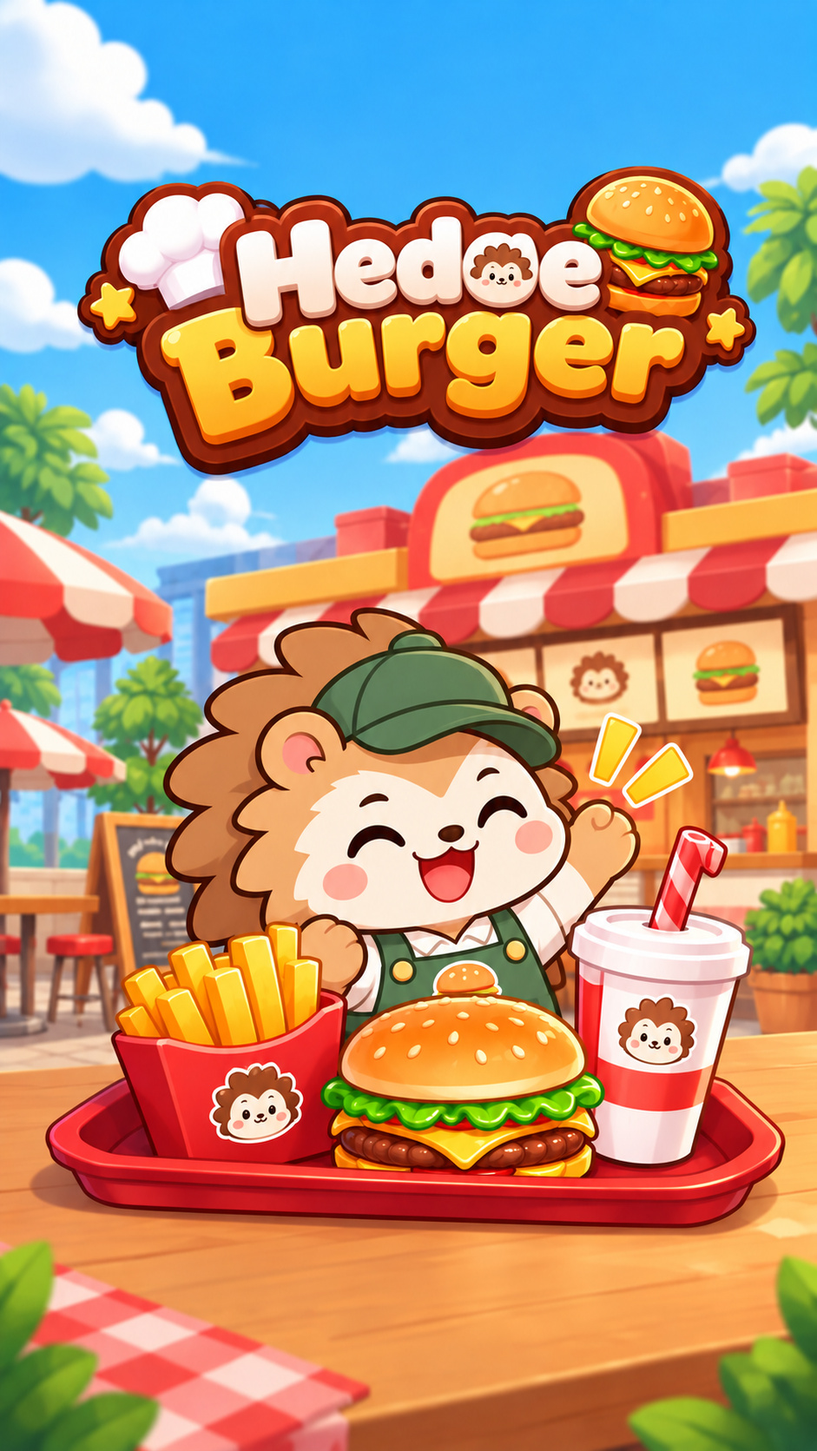
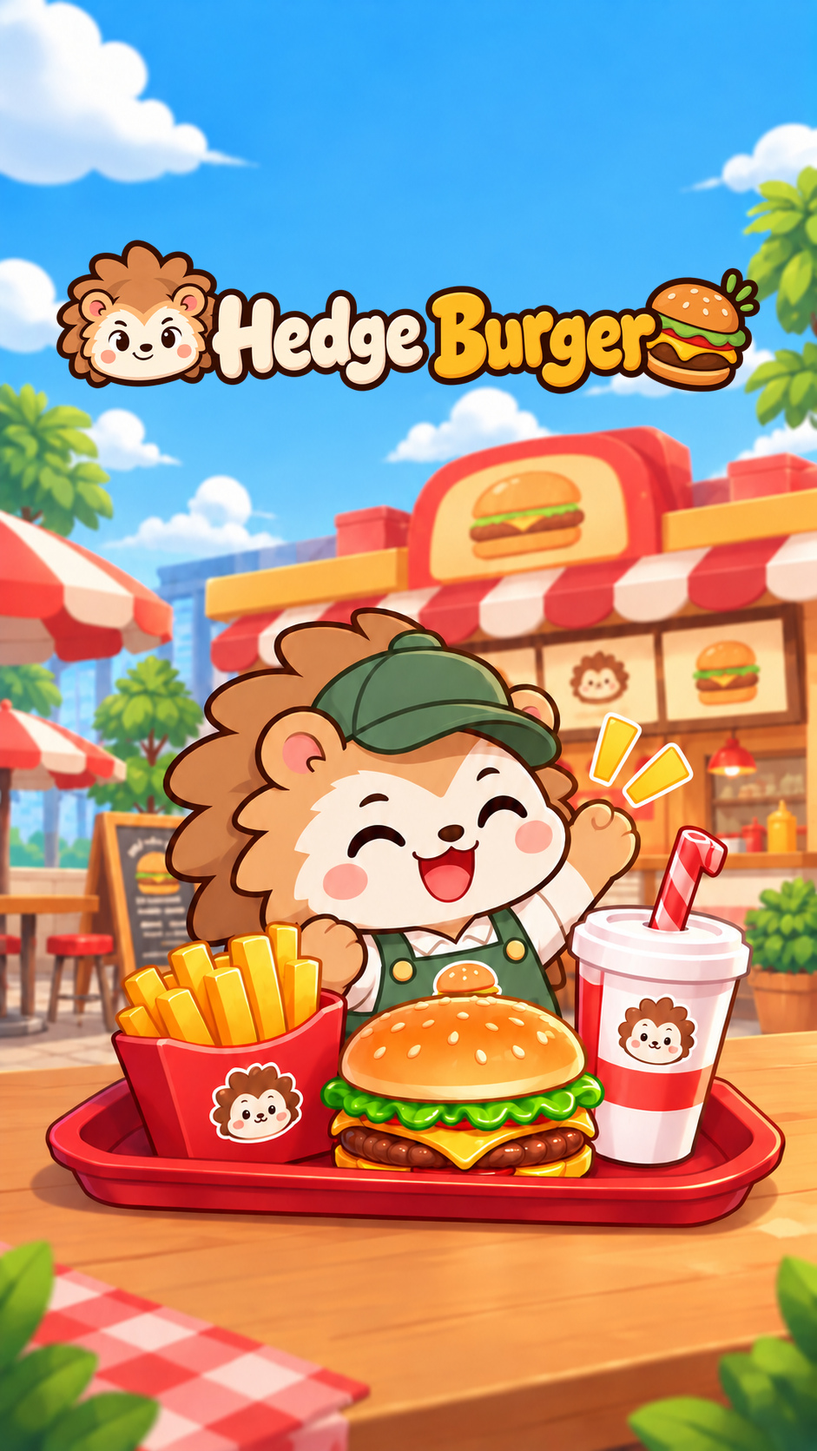
Hedge Burger v1.2: corrected loading/coins/guide art, two-word name, remaining cat wording
- v1.2 pack art: loading title reads Hedge Burger, logo, Home/Profile guides with the
  spaced name, revisit coins with H stamps (v1.1 cat-free label was wrong)
- visible name Hedge Burger everywhere (UI, share title, project.config.json)
- Meow Rush -> Hedge Burger (label fitted to its button), Hedge cashier/cleaner,
  Hire a Hedge cashier/cleaner, Calling the Hedge crew..., Ready! Hedge!
- HS-bound label/reward key/item name 'Meow Rush', save key, ids and file names kept

Claude-Session: https://claude.ai/code/session_01L76TDqLUMf2pGS7M5bR5mr

diff --git a/src/native/60n_ui_canvas.js b/src/native/60n_ui_canvas.js
@@ -113,7 +113,7 @@ const UI={
   onTaskAdvance(){}, onStageUp(){ UI.offerOpening(); },
   startAd(){ if(isBoost()||now<S.boostCd||UI.modalOpen||Ads.busy) return;
     Ads.rewarded('meow_rush',()=>UI.startRush(),{}); },
-  startRush(){ S.boostUntil=now+CFG.ads.rush.dur;S.boostCd=now+CFG.ads.rush.dur+CFG.ads.rush.cd;UI.toast('Meow Rush! 2× speed for 1 min');sfx('level'); },
+  startRush(){ S.boostUntil=now+CFG.ads.rush.dur;S.boostCd=now+CFG.ads.rush.dur+CFG.ads.rush.cd;UI.toast('Hedge Burger! 2× speed for 1 min');sfx('level'); },
   watchCoins(after){ if(!UI.ready('coin_purchase')||Ads.busy) return; const c=CFG.ads.coinPurchase;
     const done=()=>{UI._cd.coin_purchase=Date.now()+c.cd*1000;after&&after()};
     Ads.rewarded('coin_purchase',()=>{UI.grant(c.reward,'Coin purchase');done()},{after:done}); },
@@ -145,7 +145,7 @@ const UI={
     const show=S.task>=taskIndex('t_serve5');
     if(show){ const bx=W-10-78, by=Math.max(T+48,I.capB+8), on=isBoost(), sub=on?Math.ceil(S.boostUntil-now)+'s left':now<S.boostCd?'ready in '+Math.ceil(S.boostCd-now)+'s':'for 1 min';
       const dy=pressed('rush')?2:0; box(bx,by+dy,78,66,12,C.cream,C.ink,2.5,dy?1:3); ctx.save(); rrp(ctx,bx,by+dy,78,66,12); ctx.clip(); ctx.fillStyle=on?C.green:C.blue; ctx.fillRect(bx,by+dy+30,78,40); ctx.restore(); rrp(ctx,bx,by+dy,78,66,12); ctx.lineWidth=2.5; ctx.strokeStyle=C.ink; ctx.stroke();
-      txt('MEOW RUSH',bx+39,by+dy+10,11,C.ink,'center'); txt('×2 SPEED',bx+39,by+dy+23,14,'#3f8f35','center'); txt(sub,bx+39,by+dy+50,11,'#fff','center',700,C.ink,3);
+      txt('HEDGE BURGER',bx+39,by+dy+10,Math.min(11,70/tw('HEDGE BURGER',1)),C.ink,'center'); txt('×2 SPEED',bx+39,by+dy+23,14,'#3f8f35','center'); txt(sub,bx+39,by+dy+50,11,'#fff','center',700,C.ink,3);
       hit(bx,by,78,66,()=>UI.startAd(),'rush'); }
     /* coin bag (Buying Pad) chip */
     let sideY=T+46;
@@ -226,7 +226,7 @@ const UI={
     gap(h){ return {h,gap:0,draw(){}}; },
   },
   m_shop(w){ const on=isBoost(),cd=now<S.boostCd, cp=CFG.ads.coinPurchase, wait=Math.ceil(((UI._cd.coin_purchase||0)-Date.now())/1000), B=UI.B;
-    const r=[B.row({w:w,icon:'speed',title:'Meow Rush',desc:'Stations cook twice as fast and you walk 30% faster for 1 minute.',btn:{label:on?'ACTIVE':cd?Math.ceil(S.boostCd-now)+'s':'FREE',icon:on||cd?null:'ad',disabled:on||cd,fn:()=>{UI.close();UI.startAd()},id:'sb1'}}),
+    const r=[B.row({w:w,icon:'speed',title:'Hedge Burger',desc:'Stations cook twice as fast and you walk 30% faster for 1 minute.',btn:{label:on?'ACTIVE':cd?Math.ceil(S.boostCd-now)+'s':'FREE',icon:on||cd?null:'ad',disabled:on||cd,fn:()=>{UI.close();UI.startAd()},id:'sb1'}}),
       B.row({w:w,icon:'coin',title:'Bag of coins',desc:'A tip jar from happy customers.',btn:{label:wait>0?wait+'s':'+'+cp.reward,icon:wait>0?null:'ad',disabled:wait>0,fn:()=>{UI.close();UI.watchCoins()},id:'sb2'}}),
       B.note('Decorations, tables and new stations are bought directly in the restaurant by standing on their dashed spot.',w)]; r.title='SHOP'; return r; },
   m_upgrade(w){ const tabs=UI.upTabs(), tab=UI._modal.arg, cur=tabs.find(t=>t[0]===tab), u=UPG[tab], B=UI.B, r=[B.tabs(tabs,tab,t=>UI.openUpgrade(t))];
@@ -258,7 +258,7 @@ const UI={
   testTool(x){ const m=PF.mock; if(x==='days'){S.mx.rvDay='';S.mx.shDay='';PF._mockRevisit=false;UI._rvCan=false;save();UI.toast('Daily gifts reset')}
     if(x==='home'){S.mx.home=0;S.mx.homeAsked=0;save();UI.toast('Add-to-Home reset')} if(x==='fail'){m.adFailNext=true;UI.toast('Next ad will fail')} if(x==='quit'){m.adQuitNext=true;UI.toast('Next ad will be closed early')} if(x==='money'){S.money+=500;save()} },
   m_milestone(w){ const r=[{h:84,draw(x,y,ww){ drawImg(icon('star'),x+ww/2-38,y,76,76); }}, {h:30,draw(x,y,ww){ box(x,y,ww,30,12,C.red,C.ink,2.5,0); txt('GRAND OPENING COMPLETE',x+ww/2,y+16,15,'#fff','center',700,C.ink,3); }},
-      UI.B.note('HedgeBurger is now a Burger Palace!',w),
+      UI.B.note('Hedge Burger is now a Burger Palace!',w),
       {h:52,draw(x,y,ww){ const s=[[fmtTime(S.playTime),'play time'],[String(S.stats.served),'customers served'],[fmtNum(S.stats.collected),'coins collected']], bw=(ww-12)/3; s.forEach((v,i)=>{ const bx=x+i*(bw+6); box(bx,y,bw,52,10,'#fff',C.ink,2,0); txt(v[0],bx+bw/2,y+19,18,C.ink,'center'); txt(v[1],bx+bw/2,y+39,10,C.brown2,'center',600); }); }},
       UI.B.note('Keep playing: every upgrade and optional table stays available.',w)]; r.title=''; return r; },
   /* --- popups (mockup style) --- */
@@ -273,21 +273,21 @@ const UI={
         txt(amt,x+ww/2,y+ww*ratio*.78,38,'#fff','center',700,'#6b3b22',7); }}; },
       note(s,w){ return {h:wrap(s,w,13).length*17, draw(x,y,ww){ para(s,x,y,ww,13,'#8a4a2a',700,1.25,'center'); }}; },
   },
-  m_home(w){ const P=UI.P, amt=CFG.gifts.home, paid=UI.homeDone(); const r=[P.sub('Add HedgeBurger to your phone screen for quick access!',w), P.art('pop_home_art.jpg',w,217/640)];
+  m_home(w){ const P=UI.P, amt=CFG.gifts.home, paid=UI.homeDone(); const r=[P.sub('Add Hedge Burger to your phone screen for quick access!',w), P.art('pop_home_art.jpg',w,217/640)];
     if(!paid) r.push(P.pill('+'+amt,'first time bonus'));
     r.push(P.yellow(UI._busy?'…':'Add Now',async()=>{ if(UI._busy) return; UI._busy=true; const res=await PF.addHome(); UI._busy=false;
       if(!res.ok){ UI.toast('Not added — you can try again any time'); return; }
       const can=await PF.shortcutReward(); UI.close();
-      if(can&&!UI.homeDone()){ S.mx.home=1; UI.giftPay(amt,'Home screen bonus'); } else { S.mx.home=S.mx.home||'added'; save(); UI.toast('HedgeBurger is on your phone screen!'); } },{disabled:!!UI._busy,id:'homeGo'}));
+      if(can&&!UI.homeDone()){ S.mx.home=1; UI.giftPay(amt,'Home screen bonus'); } else { S.mx.home=S.mx.home||'added'; save(); UI.toast('Hedge Burger is on your phone screen!'); } },{disabled:!!UI._busy,id:'homeGo'}));
     return r; },
   m_revisit(w){ const P=UI.P, amt=CFG.gifts.revisit, claimed=UI.revisitClaimed(), can=UI._rvCan&&!claimed;
     return [P.step(1,'Tap the button below.',w), P.yellow('Go',async()=>{ const r=await PF.startRevisit(); if(!r.ok){UI.toast('Could not open your profile');return} if(!PF.isMinis){ UI.toast('Welcome back from your Profile!'); UI.refreshRevisit(false); } },{disabled:claimed,id:'rvGo'}),
-      P.step(2,'Come back to HedgeBurger from your TikTok profile.',w), P.art('pop_revisit_profile.jpg',w,362/640), P.step(3,'Claim rewards.',w), P.coins('pop_revisit_coins.jpg','+'+amt,w,283/762),
+      P.step(2,'Come back to Hedge Burger from your TikTok profile.',w), P.art('pop_revisit_profile.jpg',w,362/640), P.step(3,'Claim rewards.',w), P.coins('pop_revisit_coins.jpg','+'+amt,w,283/762),
       P.note(claimed?'Gift claimed — come back tomorrow for another gift.':'Come back tomorrow for another gift.',w),
-      P.yellow(claimed?'Claimed ✓':'Claim',async()=>{ if(UI.revisitClaimed()) return; const ok=await PF.revisitReward(); if(!ok){ UI._rvCan=false; UI.toast('Open HedgeBurger from Profile › Recently played first'); return; }
+      P.yellow(claimed?'Claimed ✓':'Claim',async()=>{ if(UI.revisitClaimed()) return; const ok=await PF.revisitReward(); if(!ok){ UI._rvCan=false; UI.toast('Open Hedge Burger from Profile › Recently played first'); return; }
         S.mx.rvDay=dayKey(); PF._mockRevisit=false; UI.close(); UI.giftPay(amt,'Revisit gift'); },{disabled:!can,id:'rvClaim'})]; },
   m_share(w){ const P=UI.P, amt=CFG.gifts.share, claimed=UI.shareClaimed();
-    return [P.sub('Share HedgeBurger with friends and get a reward!',w), P.art('pop_share_art.jpg',w,451/640), P.pill(claimed?'Claimed today':'+'+amt,claimed?'new gift tomorrow':null),
+    return [P.sub('Share Hedge Burger with friends and get a reward!',w), P.art('pop_share_art.jpg',w,451/640), P.pill(claimed?'Claimed today':'+'+amt,claimed?'new gift tomorrow':null),
       P.yellow(claimed?'Share again':'Share Now',async()=>{ if(UI._busy) return; UI._busy=true; const r=await PF.share(); UI._busy=false; if(!r.ok){ UI.toast('Share cancelled'); return; }
         UI.close(); if(!UI.shareClaimed()){ S.mx.shDay=dayKey(); UI.giftPay(amt,'Share gift'); } else UI.toast('Thanks for sharing!'); },{icon:'share',id:'shGo'})]; },
   /* --- mock ad / mock TikTok sheet --- */

diff --git a/src/00_config.js b/src/00_config.js
@@ -20,7 +20,7 @@ const CFG={
   boost:{dur:60, cd:120},   // kept for old saves; the ad scenario uses CFG.ads.rush
   xp:{base:6, perLevel:6},
   decorBonus:0.05,          // +5% to every sale per decoration bought
-  stageNames:['Chicken Corner','HedgeBurger Diner','Bigger Restaurant','Patio & Grand Opening'],
+  stageNames:['Chicken Corner','Hedge Burger Diner','Bigger Restaurant','Patio & Grand Opening'],
   minis:{clientKey:''},
   /* Ad scenario v4.6 — Meow Pizza placements (labels match the Meow Sushi config). Times in seconds.
      Ads are shown through Ads.adapter (HS SDK goes there); without it a test ad is simulated. */
@@ -111,11 +111,11 @@ const SPOTS=[
  {id:'bin',     label:'Trash bin',     cost:5,   fp:[12.95,6.5,0.6,0.6],unlock:'t_bin',     kind:'bin'},
  {id:'table2',  label:'Table',         cost:60,  fp:[14.95,1.25,1.3,1.3],unlock:'t_table2',   kind:'table'},
  {id:'drink',   label:'Soda fountain', cost:90,  fp:[2.3,0,1.5,1.25],  unlock:'t_drink',    kind:'station', st:'drink', pt:[3.05,1.8]},
- {id:'renovate',label:'HedgeBurger Diner', cost:300, fp:[13.6,9.9,1.1,0.8],unlock:'t_renovate', kind:'stage', stage:1},
+ {id:'renovate',label:'Hedge Burger Diner', cost:300, fp:[13.6,9.9,1.1,0.8],unlock:'t_renovate', kind:'stage', stage:1},
  {id:'pantry',  label:'Storage shelf', cost:150, fp:[0,3.75,0.6,1.1],  unlock:'t_pantry',kind:'station', st:'pantry', pt:[1.1,4.3]},
  {id:'prep',    label:'Burger station',cost:180, fp:[0,5.4,1.3,2.0],  unlock:'t_prep',    kind:'station', st:'prep', pt:[1.85,6.4]},
  {id:'office',  label:'Manager desk',  cost:600, fp:[17.35,12.9,0.8,0.65],unlock:'t_office',  kind:'office', zone:'hall2'},
- {id:'cashier', label:'Cashier cat',   cost:340, fp:[4.4,9.0,0.8,0.8],unlock:'t_hire1',    kind:'hire', worker:'cashier'},
+ {id:'cashier', label:'Hedge cashier',   cost:340, fp:[4.4,9.0,0.8,0.8],unlock:'t_hire1',    kind:'hire', worker:'cashier'},
  {id:'table3',  label:'Table',         cost:150, fp:[10.25,4.75,1.3,1.3],unlock:'t_table3',   kind:'table'},
  {id:'expand_kitchen2',label:'Bigger kitchen',cost:420,fp:[4.3,10.0,1.1,0.8],unlock:'t_expandk',kind:'zone', zones:['kitchen2']},
  {id:'oven2',   label:'Chicken station',cost:240, fp:[0,11.4,1.3,2.3], unlock:'t_oven2',   kind:'station', st:'oven', pt:[1.85,12.55], zone:'kitchen2'},
@@ -130,7 +130,7 @@ const SPOTS=[
  {id:'helper',  label:'Kitchen runner',cost:480, fp:[3.3,2.6,0.8,0.8],unlock:'t_hire2',    kind:'hire', worker:'helper'},
  {id:'table6',  label:'Family table',  cost:240, fp:[14.95,11.8,1.3,2.95],unlock:'t_table6',   kind:'table4p', zone:'hall2'},
  {id:'waiter',  label:'Food runner',   cost:420, fp:[9.0,10.1,0.8,0.8],unlock:'t_hire3',    kind:'hire', worker:'waiter'},
- {id:'cleaner', label:'Cleaner cat',   cost:300, fp:[12.85,3.4,0.8,0.8],unlock:'t_hire4',   kind:'hire', worker:'cleaner'},
+ {id:'cleaner', label:'Hedge cleaner',   cost:300, fp:[12.85,3.4,0.8,0.8],unlock:'t_hire4',   kind:'hire', worker:'cleaner'},
  {id:'vip',     label:'VIP table',     cost:420, fp:[10.25,15.9,1.3,1.3],unlock:'t_vip',     kind:'vip', zone:'hall2'},
  {id:'table4',  label:'Table',         cost:220, fp:[14.95,4.75,1.3,1.3],unlock:'t_table4',   kind:'table'},
  {id:'seafood', label:'Chicken burger station',cost:560,fp:[0,14.3,1.3,1.8],unlock:'t_seafood',kind:'station', st:'seafood', pt:[1.85,15.2], zone:'kitchen2'},
@@ -158,14 +158,14 @@ const TASKS=[
  {id:'t_table2',  text:'Unlock a new table',kind:'buy',spot:'table2',reward:20},
  {id:'t_drink',   text:'New drink: Hedge Cola',kind:'buy',spot:'drink',reward:30},
  {id:'t_cook10',  text:'Fry 10 chicken buckets',kind:'count',stat:'cooked_pizza',n:10,reward:40},
- {id:'t_hire1',   text:'Hire a cashier cat',kind:'buy',spot:'cashier',reward:60},
+ {id:'t_hire1',   text:'Hire a Hedge cashier',kind:'buy',spot:'cashier',reward:60},
  {id:'t_collect100',text:'Collect 100 coins',kind:'count',stat:'collected',n:100,reward:40},
- {id:'t_renovate',text:'Renovate into HedgeBurger Diner',kind:'buy',spot:'renovate',reward:50},
+ {id:'t_renovate',text:'Renovate into Hedge Burger Diner',kind:'buy',spot:'renovate',reward:50},
  {id:'t_pantry',  text:'Build the storage shelf',kind:'buy',spot:'pantry',reward:40},
  {id:'t_prep',    text:'New recipe: Cheeseburger',kind:'buy',spot:'prep',reward:50},
  {id:'t_loadprep',text:'Bring patties to the burger station',kind:'count',stat:'loaded',n:3,reward:30,target:'pantry'},
  {id:'t_table3',  text:'Unlock a third table',kind:'buy',spot:'table3',reward:40},
- {id:'t_hire4',   text:'Hire a cleaner cat',kind:'buy',spot:'cleaner',reward:60},
+ {id:'t_hire4',   text:'Hire a Hedge cleaner',kind:'buy',spot:'cleaner',reward:60},
  {id:'t_store',   text:'Upgrade the storage shelf',kind:'level',key:'store',n:1,reward:40,target:'padKitchen'},
  {id:'t_flow',    text:'Attract more customers',kind:'level',key:'rFlow',n:1,reward:50,target:'padRest'},
  {id:'t_table4',  text:'Unlock the fourth table',kind:'buy',spot:'table4',reward:50},

diff --git a/src/index.template.html b/src/index.template.html
@@ -1,4 +1,4 @@
-<title>HedgeBurger</title>
+<title>Hedge Burger</title>
 <meta name="claude:viewport-fit-sides" content="cover">
 <link rel="preconnect" href="https://fonts.googleapis.com">
 <link rel="stylesheet" href="https://fonts.googleapis.com/css2?family=Fredoka:wght@500;600;700&display=swap">
@@ -30,7 +30,7 @@ button{font:inherit;color:inherit}
 .pbar span{position:absolute;inset:0;display:grid;place-items:center;font-size:13px;color:var(--ink);text-decoration:none}
 #icPin{position:absolute;right:2px;top:-8px;width:22px;height:30px}
 .boost{pointer-events:auto;position:absolute;right:max(10px,env(safe-area-inset-right,0px));top:max(calc(56px + var(--sat)),calc(var(--capb) + 8px));width:78px;padding:5px 3px;border:2.5px solid var(--ink);border-radius:12px;background:linear-gradient(var(--cream) 0 46%,var(--blue) 46%);text-align:center;font-weight:700;box-shadow:0 3px 0 rgba(90,52,36,.3);cursor:pointer}
-.boost b{display:block;font-size:12px;letter-spacing:.04em}.boost em{display:block;font-style:normal;font-size:15px;color:#3f8f35;line-height:1.1}
+.boost b{display:block;font-size:12px;letter-spacing:.04em;white-space:nowrap}.boost b.long{font-size:9.5px;letter-spacing:0}.boost em{display:block;font-style:normal;font-size:15px;color:#3f8f35;line-height:1.1}
 .boost small{display:block;font-size:11px;color:#fff;text-shadow:0 1px 0 var(--ink);margin-top:14px}.boost.on{background:linear-gradient(var(--cream) 0 46%,var(--green) 46%)}
 .boost .ad{display:inline-block;width:26px;height:18px;margin-top:2px}
 .spacer{flex:1}
@@ -155,14 +155,14 @@ button:focus-visible,.boost:focus-visible{outline:3px solid #fff;outline-offset:
 </style>
 
 <div id="wrap">
-  <canvas id="game" aria-label="HedgeBurger restaurant"></canvas>
+  <canvas id="game" aria-label="Hedge Burger restaurant"></canvas>
   <div class="hud">
     <div class="top">
       <div class="pill" id="coinPill"><i id="icCoin"></i><span id="moneyTxt">0</span><button class="plus" id="plusBtn" aria-label="Shop">+</button></div>
       <div class="pill" id="starPill"><i id="icStar"></i><span id="lvlTxt">1</span></div>
       <button class="pill" id="progPill" aria-label="Open map"><div class="pbar"><u id="progFill"></u><span id="progTxt">0/10</span></div><i id="icPin"></i></button>
     </div>
-    <div class="boost" id="boostBtn" role="button" tabindex="0" hidden><b>MEOW RUSH</b><em>×2 SPEED</em><small id="boostSub">for 1 min</small></div>
+    <div class="boost" id="boostBtn" role="button" tabindex="0" hidden><b class="long">HEDGE BURGER</b><em>×2 SPEED</em><small id="boostSub">for 1 min</small></div>
         <button class="chip" id="bagChip" hidden><i></i><b>+0</b></button>
     <div id="side"><button class="sb" id="sbRevisit" hidden aria-label="Revisit gift"><img alt=""></button><button class="sb" id="sbShare" hidden aria-label="Share gift"><img alt=""></button><button class="sb" id="sbHome" hidden aria-label="Add to phone screen"><img alt=""></button></div>
     <div class="spacer"></div>
@@ -179,7 +179,7 @@ button:focus-visible,.boost:focus-visible{outline:3px solid #fff;outline-offset:
     <div id="banner"><b>Title</b><span></span></div>
   </div>
   <div id="modalRoot"></div>
-  <div id="loading"><div class="ld-bg"></div><img class="ld-art" alt="HedgeBurger" src="__ART_loading_bg__"><div class="ld-ui"><div class="ld-bar"><u></u><img alt="" src="__ART_paw_thumb__"></div><div id="loadTxt">Loading… 0%</div></div></div>
+  <div id="loading"><div class="ld-bg"></div><img class="ld-art" alt="Hedge Burger" src="__ART_loading_bg__"><div class="ld-ui"><div class="ld-bar"><u></u><img alt="" src="__ART_paw_thumb__"></div><div id="loadTxt">Loading… 0%</div></div></div>
   <div id="mockCap" hidden>… | ✕</div>
   <div id="errorBox" hidden><div><h2>The game could not start</h2><p></p><small>Try reloading the page. If it keeps happening, send this message to the developer.</small></div></div>
 </div>

diff --git a/src/65_minis_ui.js b/src/65_minis_ui.js
@@ -91,7 +91,7 @@ Object.assign(UI,{
     $('mxClose').onclick=close; $('modalBg').onclick=e=>{if(e.target.id==='modalBg')close()}; },
   /* ---- Add to Phone Screen ---- */
   openHome(){ const amt=CFG.gifts.home, paid=UI.homeDone();
-    UI.popup(MX_ART.btn_home,'Launch Reward',`<p class="mx-sub">Add HedgeBurger to your phone screen for quick access!</p>
+    UI.popup(MX_ART.btn_home,'Launch Reward',`<p class="mx-sub">Add Hedge Burger to your phone screen for quick access!</p>
       <img class="mx-art" alt="" src="${MX_ART.pop_home_art}">
       ${PF.isMinis?'':`<img class="mx-art mx-steps" alt="1. Tap the share button. 2. Select Add to Home Screen." src="${MX_ART.pop_home_steps}">`}
       ${paid?'':`<div class="mx-pill">${UI_ICON.coin}<b>+${amt}</b><small>first time bonus</small></div>`}
@@ -99,14 +99,14 @@ Object.assign(UI,{
     $('mxGo').onclick=async()=>{ const b=$('mxGo'); b.disabled=true; const r=await PF.addHome();
       if(!r.ok){ b.disabled=false; UI.toast('Not added — you can try again any time'); return; }
       const can=await PF.shortcutReward(); UI.close();
-      if(can&&!UI.homeDone()){ S.mx.home=1; UI.grant(amt,'Home screen bonus'); } else { S.mx.home=S.mx.home||'added'; save(); UI.toast('HedgeBurger is on your phone screen!'); } }; },
+      if(can&&!UI.homeDone()){ S.mx.home=1; UI.grant(amt,'Home screen bonus'); } else { S.mx.home=S.mx.home||'added'; save(); UI.toast('Hedge Burger is on your phone screen!'); } }; },
   /* ---- Revisit Gift ---- */
   openRevisit(){ const amt=CFG.gifts.revisit, claimed=UI.revisitClaimed(), can=UI._rvCan&&!claimed;
     UI._rvPopup=true;
     UI.popup(MX_ART.btn_revisit,'Entry Reward',`<ol class="mx-steps-list">
       <li><span class="mx-n">1</span><p>Tap the button below.</p></li></ol>
       <button class="mx-btn" id="mxGo" ${claimed?'disabled':''}>Go</button>
-      <ol class="mx-steps-list" start="2"><li><span class="mx-n">2</span><p>Come back to HedgeBurger from your TikTok profile.</p></li></ol>
+      <ol class="mx-steps-list" start="2"><li><span class="mx-n">2</span><p>Come back to Hedge Burger from your TikTok profile.</p></li></ol>
       <img class="mx-art" alt="Find us under Profile, Recently played" src="${MX_ART.pop_revisit_profile}">
       <ol class="mx-steps-list" start="3"><li><span class="mx-n">3</span><p>Claim rewards.</p></li></ol>
       <div class="mx-coins"><img alt="" src="${MX_ART.pop_revisit_coins}"><b>+${amt}</b></div>
@@ -115,11 +115,11 @@ Object.assign(UI,{
     $('mxGo').onclick=async()=>{ const r=await PF.startRevisit(); if(!r.ok){UI.toast('Could not open your profile');return}
       if(!PF.isMinis){ UI.toast('Welcome back from your Profile!'); UI.refreshRevisit(false); } };
     $('mxClaim').onclick=async()=>{ if(UI.revisitClaimed()) return; $('mxClaim').disabled=true; const ok=await PF.revisitReward();
-      if(!ok){ UI.toast('Open HedgeBurger from Profile › Recently played first'); UI.openRevisit(); return; }
+      if(!ok){ UI.toast('Open Hedge Burger from Profile › Recently played first'); UI.openRevisit(); return; }
       S.mx.rvDay=dayKey(); PF._mockRevisit=false; UI._rvPopup=false; UI.close(); UI.grant(amt,'Revisit gift'); }; },
   /* ---- Share Gift ---- */
   openShare(){ const amt=CFG.gifts.share, claimed=UI.shareClaimed();
-    UI.popup(MX_ART.btn_share,'Share Game',`<p class="mx-sub">Share HedgeBurger with friends and get a reward!</p>
+    UI.popup(MX_ART.btn_share,'Share Game',`<p class="mx-sub">Share Hedge Burger with friends and get a reward!</p>
       <img class="mx-art" alt="" src="${MX_ART.pop_share_art}">
       <div class="mx-pill">${UI_ICON.coin}<b>${claimed?'Claimed today':'+'+amt}</b>${claimed?'<small>new gift tomorrow</small>':''}</div>
       <button class="mx-btn" id="mxGo"><i>${MX_ICON.share}</i>${claimed?'Share again':'Share Now'}</button>`);

diff --git a/src/60_ui.js b/src/60_ui.js
@@ -67,14 +67,14 @@ const UI={
     UI.modal(`<h2>RESTAURANT MAP</h2><div class="stages">${cards}</div>`,'wide')},
   /* ---- shop ---- */
   openShop(){const on=isBoost(),cd=now<S.boostCd, cp=CFG.ads.coinPurchase, cpWait=Math.ceil(((UI._cd.coin_purchase||0)-Date.now())/1000);
-    UI.modal(`<h2>SHOP</h2><div class="ulist"><div class="urow"><i>${UI_ICON.speed}</i><div class="uinfo"><b>Meow Rush</b><small>Stations cook twice as fast and you walk 30% faster for 1 minute.</small></div><button class="buy" id="shopBoost" ${on||cd?'disabled':''}>${on?'ACTIVE':cd?Math.ceil(S.boostCd-now)+'s':UI_ICON.ad+' FREE'}</button></div>
+    UI.modal(`<h2>SHOP</h2><div class="ulist"><div class="urow"><i>${UI_ICON.speed}</i><div class="uinfo"><b>Hedge Burger</b><small>Stations cook twice as fast and you walk 30% faster for 1 minute.</small></div><button class="buy" id="shopBoost" ${on||cd?'disabled':''}>${on?'ACTIVE':cd?Math.ceil(S.boostCd-now)+'s':UI_ICON.ad+' FREE'}</button></div>
       <div class="urow"><i>${UI_ICON.coin}</i><div class="uinfo"><b>Bag of coins</b><small>A tip jar from happy customers.</small></div><button class="buy" id="shopCoins" ${cpWait>0?'disabled':''}>${cpWait>0?cpWait+'s':UI_ICON.ad+' +'+cp.reward}</button></div></div>
       <p class="note">Decorations, tables and new stations are bought directly in the restaurant by standing on their dashed spot.</p>`);
     const b=$('shopBoost'); if(b) b.onclick=()=>{UI.close();UI.startAd()};
     const g=$('shopCoins'); if(g) g.onclick=()=>{UI.close();UI.watchCoins()};},
   /* Meow Rush (rewarded) */
   startAd(){ if(isBoost()||now<S.boostCd||UI.modalOpen||Ads.busy) return;
-    Ads.rewarded('meow_rush',()=>{S.boostUntil=now+CFG.ads.rush.dur;S.boostCd=now+CFG.ads.rush.dur+CFG.ads.rush.cd;UI.toast('Meow Rush! 2× speed for 1 min');sfx('level')}); },
+    Ads.rewarded('meow_rush',()=>{S.boostUntil=now+CFG.ads.rush.dur;S.boostCd=now+CFG.ads.rush.dur+CFG.ads.rush.cd;UI.toast('Hedge Burger! 2× speed for 1 min');sfx('level')}); },
   /* Coin Purchase (rewarded): fixed coins per watch */
   watchCoins(after){ if(!UI.ready('coin_purchase')||Ads.busy) return; const c=CFG.ads.coinPurchase;
     Ads.rewarded('coin_purchase',()=>{UI._cd.coin_purchase=Date.now()+c.cd*1000;UI.grant(c.reward,'Coin purchase');after&&after()}); },
@@ -91,7 +91,7 @@ const UI={
     $('modalRoot').querySelectorAll('[data-x]').forEach(b=>b.onclick=()=>UI.testTool(b.dataset.x,b));
     $('sSound').onclick=()=>{S.sound=!S.sound;$('sSound').textContent='Sound: '+(S.sound?'ON':'OFF');save()};
     let armed=false;$('sReset').onclick=()=>{if(!armed){armed=true;$('sReset').textContent='Tap again to confirm';return}resetGame();UI.close();UI.toast('Fresh start!')}},
-  milestone(){UI.modal(`<div class="trophy">${UI_ICON.star}</div><h2>GRAND OPENING COMPLETE</h2><p class="big">HedgeBurger is now a Burger Palace!</p>
+  milestone(){UI.modal(`<div class="trophy">${UI_ICON.star}</div><h2>GRAND OPENING COMPLETE</h2><p class="big">Hedge Burger is now a Burger Palace!</p>
     <div class="mstats"><div><b>${fmtTime(S.playTime)}</b><small>play time</small></div><div><b>${S.stats.served}</b><small>customers served</small></div><div><b>${fmtNum(S.stats.collected)}</b><small>coins collected</small></div></div><p class="note">Keep playing: every upgrade and optional table stays available.</p>`,'wide')},
 };
 function fmtTime(s){s=Math.floor(s);return Math.floor(s/60)+':'+String(s%60).padStart(2,'0')}

diff --git a/src/05_platform.js b/src/05_platform.js
@@ -68,7 +68,7 @@ const PF=(()=>{
        each returns a Promise<{ok:boolean, reward?:boolean, err?:string}> */
     canShortcut(){ return sdk()?has('addShortcut'):true; },
     addHome(){ const T=sdk();
-      if(!T) return mockStep('Add to Home Screen','The phone asks “Add HedgeBurger to Home Screen?”',true);
+      if(!T) return mockStep('Add to Home Screen','The phone asks “Add Hedge Burger to Home Screen?”',true);
       return new Promise(res=>{ try{ T.addShortcut({success:()=>res({ok:true}),fail:e=>res({ok:false,err:(e&&(e.error_msg||e.errMsg))||'cancelled'})}); }catch(e){res({ok:false,err:e.message})} }); },
     shortcutReward(){ const T=sdk(); if(!T) return Promise.resolve(true);
       if(!has('getShortcutMissionReward')) return Promise.resolve(false);
@@ -84,7 +84,7 @@ const PF=(()=>{
       return new Promise(res=>{ try{ fn.call(T,{success:r=>res(!!(r&&r.canReceiveReward)),fail:()=>res(false)}); }catch(_){res(false)} }); },
     share(){ const T=sdk();
       if(T&&T.shareAppMessage) return new Promise(res=>{ try{ T.shareAppMessage({query:'from=share',success:()=>res({ok:true}),fail:e=>res({ok:false,err:(e&&e.errMsg)||'cancelled'})}); }catch(e){res({ok:false,err:e.message})} });
-      return mockStep('Share HedgeBurger','In TikTok this opens the friend picker. Pick “Sent” to simulate a share.',true,'Sent','Cancel'); },
+      return mockStep('Share Hedge Burger','In TikTok this opens the friend picker. Pick “Sent” to simulate a share.',true,'Sent','Cancel'); },
   };
   /* mock confirmation sheet so the flows can be tested outside TikTok */
   function mockStep(title,body,okDefault,okTxt='Done',noTxt='Cancel'){

diff --git a/src/70_main.js b/src/70_main.js
@@ -89,11 +89,11 @@ async function boot(){
     UI.loading(.03,'Heating the grill…');
     if(document.fonts&&document.fonts.load){ try{await Promise.race([document.fonts.load('700 20px Fredoka'),new Promise(r=>setTimeout(r,1500))])}catch(_){} }
     UI.loading(.08,'Toasting the buns…');
-    await preloadAssets(p=>UI.loading(.08+p*.88,p<.5?'Toasting the buns…':p<.9?'Frying the chicken…':'Calling the cats…'));
+    await preloadAssets(p=>UI.loading(.08+p*.88,p<.5?'Toasting the buns…':p<.9?'Frying the chicken…':'Calling the Hedge crew…'));
     rebuildWorld(false); refreshSolids(); buildFloorCache(TW);
     if(S.stage===0&&S.bought.oven1) stations.forEach(s=>{if(s.type==='oven')s.stock=2});
     camX=(player.x-player.y)*TW/2;camY=(player.x+player.y)*TW/4;
-    UI.loading(1,'Ready! Meow!'); await new Promise(r=>setTimeout(r,350));
+    UI.loading(1,'Ready! Hedge!'); await new Promise(r=>setTimeout(r,350));
     $('loading').classList.add('gone'); setTimeout(()=>{$('loading').hidden=true},400);
     window.__cpStarted=true; last=null; requestAnimationFrame(frame);
     PF.initLifecycle(); UI.afterBoot&&UI.afterBoot();

diff --git a/src/native/65n_hs.js b/src/native/65n_hs.js
@@ -97,5 +97,5 @@ PF.addHome=()=>HSGame?HSGame.tiktokMission.start('shortcut').then(s=>s==='starte
 PF.shortcutReward=()=>Promise.resolve(false);   /* paid by onGive when TikTok confirms */
 PF.startRevisit=()=>HSGame?HSGame.tiktokMission.start('profile').then(s=>s==='started'?{ok:true}:{ok:false,err:s}):Promise.resolve({ok:false,err:'unsupported'});
 PF.revisitReward=()=>HSGame?HSGame.tiktokMission.refresh().then(()=>HSGame.tiktokMission.done('profile')):Promise.resolve(false);
-PF.share=()=>HSGame?HSGame.share({title:'HedgeBurger',subtitle:'Run the cutest burger diner in town!'}).then(r=>r!==null||HSGame.lastShareError==='claimed'?{ok:true}:{ok:false,err:HSGame.lastShareError}):Promise.resolve({ok:false,err:'unsupported'});
+PF.share=()=>HSGame?HSGame.share({title:'Hedge Burger',subtitle:'Run the cutest burger diner in town!'}).then(r=>r!==null||HSGame.lastShareError==='claimed'?{ok:true}:{ok:false,err:HSGame.lastShareError}):Promise.resolve({ok:false,err:'unsupported'});
 { const o=UI.openRevisit; UI.openRevisit=function(){ UI._rvCan=true; o.call(UI); }; }

diff --git a/src/build_native.py b/src/build_native.py
@@ -75,7 +75,7 @@ body=("(function(window,document,navigator,location,localStorage,sessionStorage,
 tmp=os.path.join(OUT,'_core.js'); open(tmp,'w',encoding='utf-8').write(body)
 subprocess.run([ESBUILD,tmp,'--target=es2017','--log-level=warning','--outfile='+tmp+'.out'],check=True)
 HSREQ="var HSGame=(function(){ try{ return require('./hs-game.js'); }catch(e){ console.warn('HS SDK not loaded: '+(e&&e.message)); return null; } })();\n"
-game='/* Meow Burger — TikTok native mini game. Generated by src/build_native.py */\n'+HSREQ+read(os.path.join(NAT,'adapter.js'))+'\n'+read(tmp+'.out')
+game='/* Hedge Burger — TikTok native mini game. Generated by src/build_native.py */\n'+HSREQ+read(os.path.join(NAT,'adapter.js'))+'\n'+read(tmp+'.out')
 os.remove(tmp); os.remove(tmp+'.out')
 open(os.path.join(OUT,'game.js'),'w',encoding='utf-8').write(game)
 # ---- 3. images: loading + icons (main), popup art + side buttons (art/ui)
@@ -84,9 +84,9 @@ shutil.copy(os.path.join(ART,'paw_thumb.png'),os.path.join(OUT,'img','paw_thumb.
 subprocess.run(['node',os.path.join(ROOT,'tools','native_icons.js'),os.path.join(OUT,'img')],check=True,stdout=subprocess.DEVNULL)
 for nme in ['btn_revisit.png','btn_share.png','btn_home.png','pop_home_art.jpg','pop_revisit_profile.jpg','pop_revisit_coins.jpg','pop_share_art.jpg']:
     shutil.copy(os.path.join(ART,nme),os.path.join(OUT,'art','ui',nme))
-open(os.path.join(OUT,'art','game.js'),'w').write('// Meow Burger art subpackage: sprite images only (loaded with loadSubpackage("art")).\n')
+open(os.path.join(OUT,'art','game.js'),'w').write('// Hedge Burger art subpackage: sprite images only (loaded with loadSubpackage("art")).\n')
 for k in ['hs-game.js','hs-tiktok-sdk.min.js']: shutil.copy(os.path.join(HSKIT,k),os.path.join(OUT,k))
-open(os.path.join(OUT,'meow-config.js'),'w').write('''// Meow Burger — fill in before uploading to TikTok Minis.
+open(os.path.join(OUT,'meow-config.js'),'w').write('''// Hedge Burger — fill in before uploading to TikTok Minis.
 // appId: your TikTok Minis App ID (same value as "appid" in project.config.json)
 // hsSdkKey: your HS SDK key (sk_live_...). The Client Secret never goes here.
 module.exports = {
@@ -96,7 +96,7 @@ module.exports = {
 '''%(APPID,HSKEY))
 # ---- 4. configs
 json.dump({"deviceOrientation":"portrait","subpackages":[{"name":"art","root":"art/"}]},open(os.path.join(OUT,'game.json'),'w'),indent=2)
-json.dump({"appid":APPID,"projectname":"HedgeBurger","description":"HedgeBurger","compileType":"game",
+json.dump({"appid":APPID,"projectname":"Hedge Burger","description":"Hedge Burger","compileType":"game",
            "setting":{"urlCheck":False,"es6":True,"postcss":True,"minified":True}},open(os.path.join(OUT,'project.config.json'),'w'),indent=2)
 # ---- 4b. HS dashboard JSON, NEXT TO the package (never uploaded): paste its iaa_config in HS → Ads Config → Edit raw JSON
 GAME_LABELS=re.findall(r"label:'([^']+)'",open(os.path.join(SRC,'05_platform.js')).read().split('const AD_PLACEMENTS=')[1].split('};')[0])

diff --git a/tools/apply_brand_v11.py b/tools/apply_brand_v11.py
@@ -1,8 +1,11 @@
-"""Applies the HedgeBurger v1.1 brand images (HedgeBurger_update_v1.1.zip / HedgeBurger_character_assets_v1_1.zip).
+"""Applies the Hedge Burger brand images (HedgeBurger_update_v1.1.zip / _v1_1 full pack / HedgeBurger_update_v1.2.zip).
 
-usage: python3 tools/apply_brand_v11.py <path to the extracted HedgeBurger_assets_v1 folder (v1.1)>
+usage: python3 tools/apply_brand_v11.py <path to the extracted HedgeBurger_assets_v1 folder (v1.1 or v1.2)>
 
-Replaces only the images the pack lists in patch_manifest_v1.1.json "ui_and_brand_assets", keeping every size:
+Reads patch_manifest_v1.2.json when present (it supersedes v1.1: corrected loading wordmark, logo, guide images and
+the revisit coin banner, whose v1.1 "cat-free" label was wrong), else patch_manifest_v1.1.json.
+Replaces only the images the manifest lists in "ui_and_brand_assets", keeping every size; each file must match the
+manifest's sha256 when it gives one:
   04_tiktok_ui/*      -> assets/minis/<same name>     (loading art, icons, popup art, buttons, loading-bar thumb)
   02_stations_props/* -> src/18_env_art.js ENV_ART     (pack file names are the original kit's; the game keys differ)
   03_food/*           -> src/17_pizza_art.js FOOD_ART
@@ -34,7 +37,8 @@ def load_obj(text, name):
 
 
 def main(PACK):
-    man = json.load(open(os.path.join(PACK, 'patch_manifest_v1.1.json')))
+    mp = next(os.path.join(PACK, n) for n in ('patch_manifest_v1.2.json', 'patch_manifest_v1.1.json') if os.path.exists(os.path.join(PACK, n)))
+    man = json.load(open(mp)); print('manifest', os.path.basename(mp))
     listed = {a['path']: a for a in man['ui_and_brand_assets']}
     log = []
     for p in list(ENV) + list(FOOD):
@@ -65,7 +69,7 @@ def main(PACK):
         if p.startswith('04_tiktok_ui/'):
             dst = os.path.join(ROOT, 'assets', 'minis', os.path.basename(p))
             assert Image.open(dst).size == Image.open(src).size, p
-            if a.get('sha256'):   # cat-free originals kept byte-for-byte by the pack
+            if a.get('sha256'):   # file must be exactly the one the manifest describes
                 assert hashlib.sha256(open(src, 'rb').read()).hexdigest() == a['sha256'], p
             same = open(src, 'rb').read() == open(dst, 'rb').read()
             if not same: shutil.copyfile(src, dst)

diff --git a/CHANGELOG.md b/CHANGELOG.md
@@ -2,7 +2,13 @@
 
 Engine history before Meow Burger (Meow Pizza v4.x) is in `docs/pizza-legacy/CHANGELOG_pizza.md`.
 
-## Unreleased — HedgeBurger v1.1 asset update
+## Unreleased — Hedge Burger v1.2 corrections
+- Public name is two words, "Hedge Burger" (page title, popups, share title, stage/spot names, project.config.json, package comments).
+- Corrected art from the v1.2 pack: loading title reads "Hedge Burger" (normal g), logo, Home/Profile guide images with the spaced name, revisit coin banner with H stamps (its v1.1 "cat-free" label was wrong).
+- Remaining cat/meow wording: boost "Meow Rush"/"MEOW RUSH" → "Hedge Burger"/"HEDGE BURGER" (label sized to fit its button), "Hedge cashier"/"Hedge cleaner" spots, "Hire a Hedge cashier/cleaner" tasks, loading "Calling the Hedge crew…" and "Ready! Hedge!".
+- Kept for HS / compatibility: ad placement label, reward key and item name "Meow Rush" (must match the HS dashboard), save key `meowburger.v3`, ids `meow_rush`, `cat01…`, file names `meow-config.js`, `cat_cola.png`.
+
+## HedgeBurger v1.1 asset update
 - Left walk: the 10 non-player roles walk to screen-left with their own drawn frames (`walk1–4_90`), no mirroring; sized to their right walk.
 - T-side chair: the 6 customers / VIPs sit there with the drawn front-left set (`sit_eat_left1` waiting, 1–4 while eating), no mirroring. L-side chair unchanged.
 - Branding: display name HedgeBurger (page title, popups, share title, stage/spot names, project.config.json projectname); drink shown as Hedge Cola (item id `drink` unchanged). Save key, ad labels and file names unchanged.

diff --git a/README.md b/README.md
@@ -1,6 +1,6 @@
-# Meow Burger
+# Hedge Burger
 
-Idle tycoon mini game for **TikTok Minis** (native canvas build) in the Meow series. It reuses the Meow Pizza v4.8 engine with Meow Burger data and art.
+Idle tycoon mini game for **TikTok Minis** (native canvas build). Hedgehog reskin of Meow Burger (Meow series), on the Meow Pizza v4.8 engine. Character art: `tools/build_hedgehog.py`; brand art: `tools/apply_brand_v11.py` (HedgeBurger asset packs v1–v1.2). Internal ids, save key and HS labels still use the Meow names.
 
 - Current version: **v1.6.4** (`VERSION` in `src/00_config.js`)
 - TikTok App ID / HS Game ID: `7699569778830231573`
